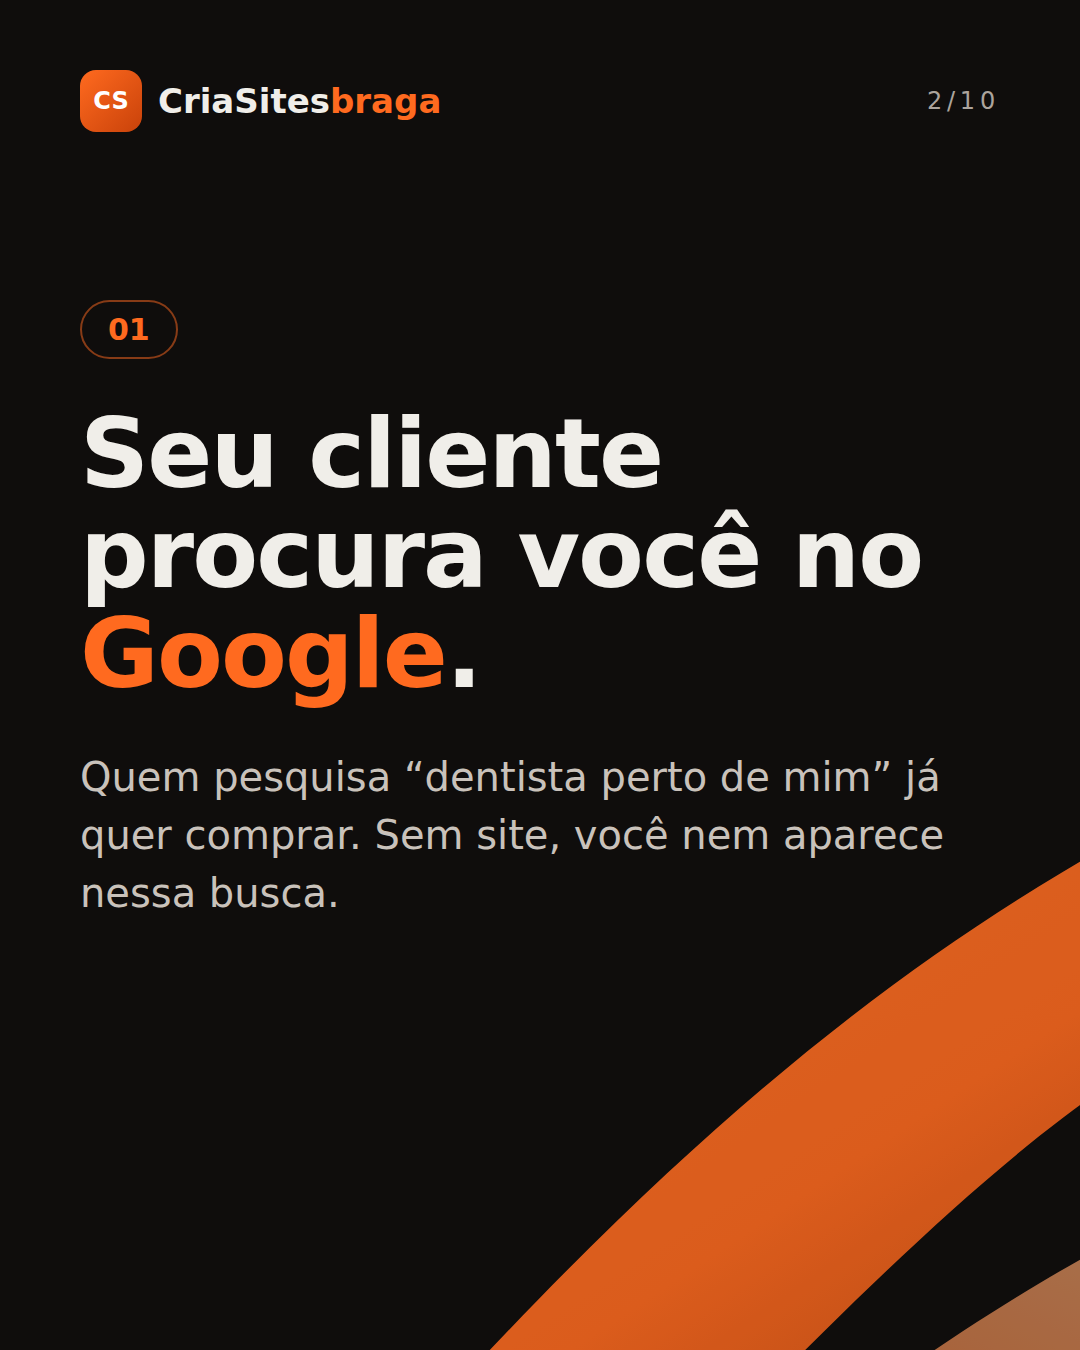
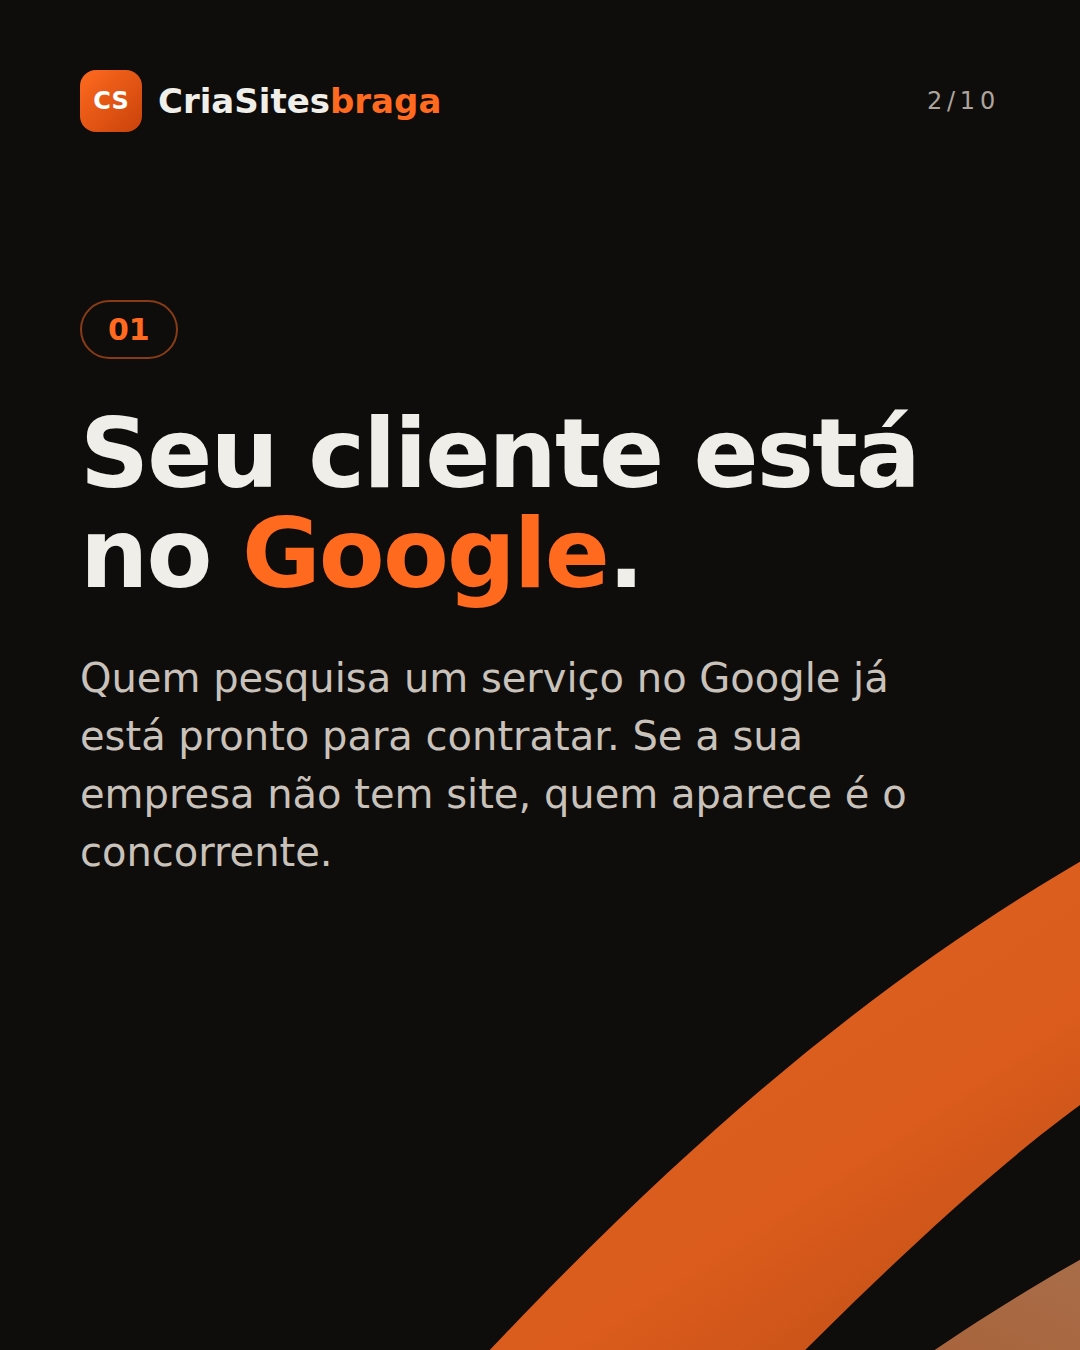
Clarify first 'why have a website' reason on page and carousel
Claude-Session: https://claude.ai/code/session_0189N2HQzkYaKNUeX7yKcXA2

Changed region(s): [[0.0611, 0.3111, 0.8861, 0.6844]]

diff --git a/criasitesbraga/index.html b/criasitesbraga/index.html
@@ -517,7 +517,7 @@
       </div>
       <p class="stats-note reveal">Na prática: a cada 100 pessoas que visitam uma boa landing page, cerca de 7 entram em contato. Sem site, essas pessoas encontram o seu concorrente.</p>
       <div class="why-grid">
-        <div class="why reveal"><b>01</b><h3>Seu cliente procura no Google</h3><p>Quem pesquisa “dentista perto de mim” já quer comprar. Sem site, sua empresa fica de fora dessa busca.</p></div>
+        <div class="why reveal"><b>01</b><h3>Seu cliente está no Google</h3><p>Quem pesquisa um serviço no Google já está pronto para contratar. Se a sua empresa não tem site, quem aparece é o concorrente.</p></div>
         <div class="why reveal"><b>02</b><h3>Credibilidade imediata</h3><p>Um site profissional mostra que o negócio é sério. Muitos clientes desconfiam de quem só existe no Instagram.</p></div>
         <div class="why reveal"><b>03</b><h3>Vendedor 24 horas</h3><p>O site apresenta seus serviços e recebe contatos de madrugada, aos fins de semana e nos feriados.</p></div>
         <div class="why reveal"><b>04</b><h3>Um espaço que é seu</h3><p>Nas redes, o algoritmo muda e a conta pode ser bloqueada. No site, quem manda é você.</p></div>
